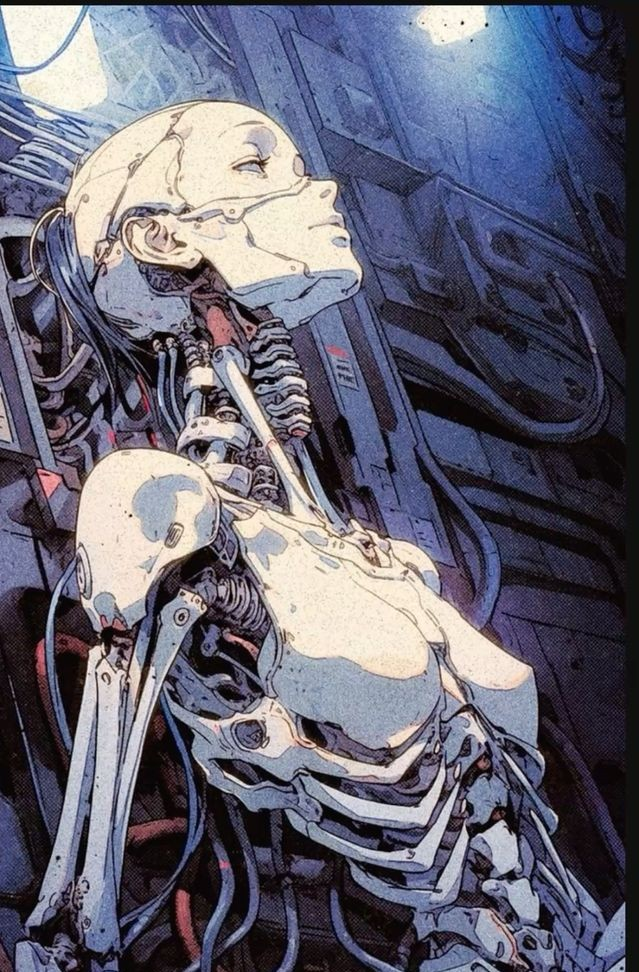
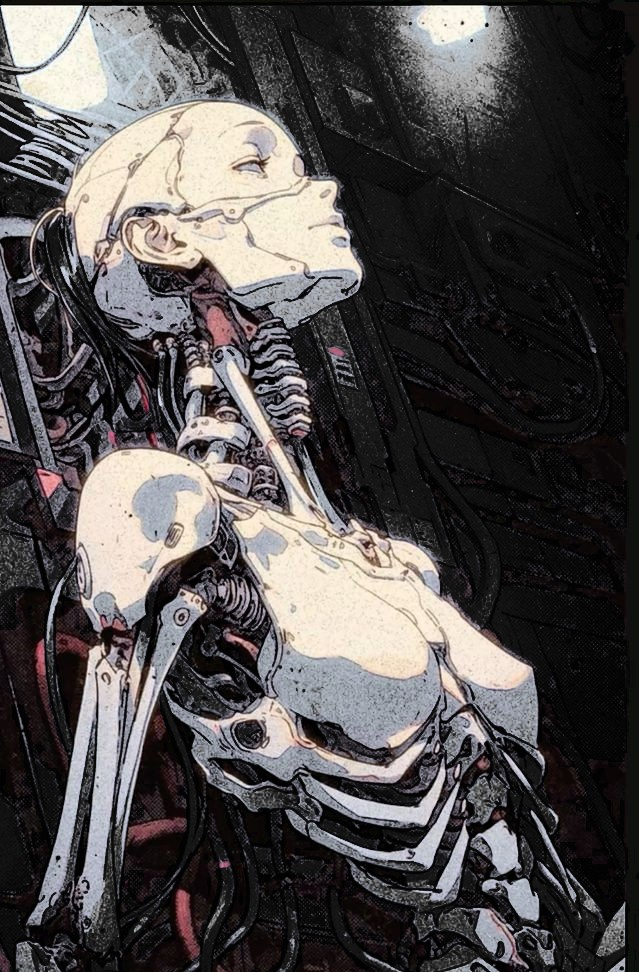
Zero goes black; his lines green, hers pink, labelled with his name
- Her art: blue-to-magenta pixels lose their colour; the dark room
  sinks to black while the light shading on her plating only greys,
  so her shoulders do not come out bruised. Recipe in ui/zero/ART.txt.
- Her page: no blue left. His lines neon green (#39ff5e), hers neon
  pink (#ff2d95), Speak green because it sends his line.
- His lines are labelled with the name she knows him by, read from a
  new `user` field in the roster (her USER_NAME), never typed in.
- One test, four breaks, all red. 774 -> 775.

Claude-Session: https://claude.ai/code/session_01BburobdiC3iYSVg4jtzydt

diff --git a/ui/zero.html b/ui/zero.html
@@ -20,22 +20,27 @@
   its right edge faded into the black so the two halves read as one
   screen. The phone's own buttons were cropped off it (ui/zero/ART.txt).
 
-  HER PALETTE IS SAMPLED OFF HER ART: the bone of her plating (#efe3c8),
-  the steel blue of the machine room behind her (#5b6aa8), and the red
-  of the cables inside her (#c8503f), which is kept for the one thing
-  that must stand out -- Speak.
+  BLACK AND GREY, NO BLUE -- his call the same night: "Can you make her
+  background more black? Blues not my vibe rly". The blue came out of
+  her art as well as the page (ui/zero/ART.txt says how).
+
+  THE LOG IS TWO COLOURS, AND BOTH ARE HIS: "Neon green for me, Neon
+  pink for her". The green is the deck's own (#39ff5e, Four's ink) and
+  the pink is the hot pink he picked for Saya's face months ago
+  (#ff2d95) -- so the page gains no new taste decision. Speak is
+  green because it sends HIS line.
 
   No network, no fonts, no libraries.
 -->
 <style>
 :root {
   --black: #000;
-  --panel: #07080f;
-  --edge:  #252c4a;
+  --panel: #050505;
+  --edge:  #262626;
   --ink:   #efe3c8;           /* her plating                           */
-  --dim:   #8e96bd;
-  --blue:  #5b6aa8;           /* the room behind her                   */
-  --red:   #c8503f;           /* the cables inside her                 */
+  --dim:   #8a8a8a;
+  --him:   #39ff5e;           /* neon green, his lines                 */
+  --her:   #ff2d95;           /* neon pink, hers                       */
 }
 * { box-sizing: border-box; margin: 0; padding: 0; }
 html, body { height: 100vh; overflow: hidden; }
@@ -69,14 +74,14 @@ body {
 #rail a:hover { color: var(--ink); border-color: var(--edge); }
 #rail .here {
   color: var(--ink);
-  border-color: color-mix(in srgb, var(--blue) 60%, transparent);
-  background: rgba(91,106,168,.12);
+  border-color: color-mix(in srgb, var(--her) 55%, transparent);
+  background: rgba(255,45,149,.10);
 }
 #home {
   width: 38px; height: 38px; flex: none; margin-left: auto;
   border-radius: 50%; cursor: pointer; display: grid; place-items: center;
-  font-size: 17px; color: var(--ink); background: rgba(91,106,168,.12);
-  border: 1px solid color-mix(in srgb, var(--blue) 55%, transparent);
+  font-size: 17px; color: var(--ink); background: rgba(255,255,255,.06);
+  border: 1px solid #444;
 }
 
 /* ---- her, and the conversation ------------------------------------
@@ -102,11 +107,13 @@ body {
   transition: filter .6s ease;
 }
 /* THE "SHE IS THINKING" CUE, in her idiom: the machine room brightens
-   while a reply is being worked out, and settles when it lands. */
+   while a reply is being worked out, and settles when it lands. No
+   saturate(): the room is grey now, and boosting what colour is left
+   only brings the cables' red up, not the blue back. */
 body.thinking #zero { animation: working 1.6s ease-in-out infinite; }
 @keyframes working {
   0%, 100% { filter: brightness(1) }
-  50%      { filter: brightness(1.28) saturate(1.15) }
+  50%      { filter: brightness(1.3) }
 }
 
 #chat {
@@ -114,7 +121,7 @@ body.thinking #zero { animation: working 1.6s ease-in-out infinite; }
   display: flex; flex-direction: column; gap: 12px;
   background: var(--panel);
   border: 1px solid var(--edge);
-  border-top: 2px solid var(--blue);
+  border-top: 2px solid var(--her);
   border-radius: 3px; padding: 16px;
 }
 #log {
@@ -131,10 +138,14 @@ body.thinking #zero { animation: working 1.6s ease-in-out infinite; }
         overflow-wrap: anywhere; }
 .turn .by { display: block; font-size: 11.5px; letter-spacing: .12em;
             text-transform: uppercase; margin-bottom: 2px; }
-.him { color: var(--dim); }
-.him .by { color: var(--blue); }
-.her .by { color: var(--red); }
-.her.pending { color: var(--dim); }
+/* HIS LINES GREEN, HERS PINK, the words as well as the labels -- a
+   log you can read by colour at a glance. A faint glow makes them neon
+   rather than just bright; any more and long answers smear. */
+.him { color: var(--him); text-shadow: 0 0 6px rgba(57,255,94,.28); }
+.her { color: var(--her); text-shadow: 0 0 6px rgba(255,45,149,.30); }
+.turn .by { opacity: .75; }
+.her.pending { color: var(--dim); text-shadow: none; }
+.her.pending .by { color: var(--her); }
 .her.pending .dots { animation: blink 1.2s steps(4) infinite; }
 @keyframes blink { 0% { opacity: .3 } 50% { opacity: 1 } 100% { opacity: .3 } }
 
@@ -148,10 +159,10 @@ body.thinking #zero { animation: working 1.6s ease-in-out infinite; }
   border: 1px solid var(--edge);
 }
 #text::placeholder { color: var(--dim); opacity: .8; }
-#text:focus { outline: none; border-color: var(--blue); }
+#text:focus { outline: none; border-color: var(--him); }
 #send {
   font: inherit; font-size: 16px; font-weight: 700; cursor: pointer;
-  color: #140504; background: var(--red); padding: 12px 22px;
+  color: #031006; background: var(--him); padding: 12px 22px;
   border: 0; border-radius: 3px;
 }
 #send:disabled { opacity: .5; cursor: default; }
@@ -209,12 +220,17 @@ document.getElementById('home').onclick = () => {
 
 // ---- who else is here ------------------------------------------------
 const ME = 'zero';
+// HIS LINES CARRY HIS NAME, the one SHE knows him by: `user` in the
+// roster is USER_NAME off her persona, so the log and her prompt can
+// never disagree about who he is. "you" only if the roster never answers.
+let HIM = 'you';
 fetch('characters.json', { cache: 'no-store' })
   .then(r => r.json())
   .then(cast => {
     const rail = document.getElementById('rail');
     cast.forEach(c => {
       const here = c.who === ME;
+      if (here && c.user) HIM = c.user;
       const el = document.createElement(here ? 'span' : 'a');
       el.textContent = c.name;
       el.title = c.blurb;
@@ -300,7 +316,7 @@ form.onsubmit = (event) => {
   send.disabled = true;
   send.textContent = '...';
   document.body.classList.add('thinking');
-  entry('him', 'you', asked);
+  entry('him', HIM, asked);
   // Where her reply will land, saying so while she works it out.
   const pending = entry('her pending', 'Zero', 'working it out ');
   const dots = document.createElement('span');

diff --git a/YUZU_TESTER.py b/YUZU_TESTER.py
@@ -3676,6 +3676,40 @@ class TestTheCastIsTwo(unittest.TestCase):
         self.assertEqual(cast, set(yuzu_face.CHARACTERS),
                          "the rail and the roster disagree about the cast")
 
+    def test_his_lines_carry_the_name_SHE_knows_him_by(self):
+        """Ghost, on Zero's page: "Make sure she knows im Ghost."
+
+        She does -- USER_NAME is in her persona and by_name() swaps
+        "user" for it -- but the log labelled his own lines "YOU", so
+        the one screen he reads her on never showed it. The label is
+        READ: `user` in the roster is USER_NAME off her persona, the
+        same one place her prompt reads it from, so the page and her
+        prompt cannot disagree about who he is. Typing "Ghost" into
+        the page would be the hardcoded cast in its newest costume.
+
+        A character with no USER_NAME (Yuzu) carries "" -- absent
+        rather than a guess."""
+        import yuzu_face
+        for c in yuzu_face.roster():
+            key = yuzu_face.CHARACTERS[c["who"]][0]
+            self.assertEqual(c.get("user"), yuzu_face._his_name(key),
+                             f"{c['who']}'s roster name for him drifted "
+                             "from her persona")
+        mine = {c["who"]: c["user"] for c in yuzu_face.roster()}
+        self.assertEqual(mine["zero"], "Ghost", "she was never told his name")
+        self.assertEqual(mine["yuzu"], "", "a name was invented for Yuzu")
+
+        page = (Path(__file__).parent / "ui" / "zero.html").read_text()
+        page = re.sub(r"<!--.*?-->", " ", page, flags=re.S)
+        page = re.sub(r"/\*.*?\*/", " ", page, flags=re.S)
+        code = "\n".join(ln.split("//")[0] for ln in page.splitlines())
+        # assertTrue, not assertRegex: the latter prints the whole page.
+        self.assertTrue(re.search(r"HIM\s*=\s*c\.user", code),
+                        "the page does not take his name from the roster")
+        self.assertTrue(re.search(r"entry\('him',\s*HIM", code),
+                        "his lines are not labelled with that name")
+        self.assertNotIn("Ghost", code, "his name is typed into the page")
+
     def test_the_cut_characters_are_off_the_INTERFACE_and_still_on_disk(self):
         """The two halves of "remove them from the interface entirely"
         without deleting a thing.

diff --git a/yuzu_face.py b/yuzu_face.py
@@ -689,6 +689,10 @@ def roster():
             continue
         out.append({"who": who, "name": persona.name,
                     "page": page, "blurb": blurb,
+                    # What SHE calls him, so a page can label his lines
+                    # with the same name. Read off her persona, like
+                    # everything else here; "" for a character with none.
+                    "user": (persona.settings.get("USER_NAME") or "").strip(),
                     # The home screen reads this rather than holding a
                     # name of its own. One roster, one truth -- the same
                     # rule that stopped Mimi being invisible.

diff --git a/CLAUDE.md b/CLAUDE.md
@@ -16,7 +16,7 @@
 - **Ghost works from a phone** (Z Flip 6, Pydroid + PocketPal). Anything
   requiring typed commands, file paths, or arguments is a dead end.
   Prefer: text he can paste, or a no-argument script he can tap Run on.
-- Run `python YUZU_TESTER.py` before committing. 774 tests, ~19 seconds.
+- Run `python YUZU_TESTER.py` before committing. 775 tests, ~19 seconds.
 
 **Ghost has to remember `sudo nvpmodel -m 0`.** The Orin ships
 throttled and forgetting it makes everything slow with no visible cause.
@@ -48,6 +48,32 @@ the LED work -- see "LEDs are removed" below.)
 This does NOT mean stripping pink from Yuzu. Her liking hot pink is
 character, it lives in the persona files, and removing it would gut
 her. The rule is about the CHASSIS FINISH, not her taste.
+
+## ZERO GOES BLACK, AND HER LOG IS HIS TWO COLOURS (Sept 24)
+
+Ghost, on her first render: *"Can you make her background more black?
+Blues not my vibe rly"*, then *"Neon green for me, Neon pink for her"*
+and *"Make sure she knows im Ghost"*.
+
+**THE BLUE CAME OUT OF THE ART, NOT ONLY THE PAGE.** The page was
+already `#000`; the blue was her machine room. Every blue-to-magenta
+pixel loses its colour, and **how far it darkens depends on how light
+it was**: the room sinks to black, the lavender shading on her plating
+only turns grey. Darkening both the same left dark blotches on her
+shoulders that read as bruises -- rendered three ways side by side and
+looked at, thirty-fifth time. Recipe in `ui/zero/ART.txt`.
+
+**His lines `#39ff5e`, hers `#ff2d95`** -- the deck's green and the
+hot pink he picked for Saya's face, so no new taste call. Speak is
+green because it sends HIS line.
+
+**"SHE KNOWS" WAS ALREADY TRUE; THE SCREEN NEVER SHOWED IT.** Her
+persona carries `USER_NAME: Ghost` and `by_name()` guards her replies
+-- but the log labelled his lines `YOU`. They carry his name now, READ
+from a new `user` field in the roster (her USER_NAME, `""` for Yuzu),
+so the label and her prompt cannot disagree. **One test, four breaks,
+all red**: the roster dropping the name, the name typed into the page,
+the label back to "you", and a hardcoded `HIM`. **774 -> 775.**
 
 ## ZERO: A SECOND MIND, ON HER OWN WEIGHTS (Sept 24)
 

diff --git a/NEXT_SESSION.md b/NEXT_SESSION.md
@@ -55,7 +55,7 @@ So:
     roster         Yuzu, Four, Zero  (Cait, Mimi, Saya are `retired: yes`)
     Zero's weights  her own `model:` -- Qwen3-4B-Instruct-2507 heretic
     Four's prompt  5446 chars
-    tests          774, ~95s,  `python YUZU_TESTER.py`
+    tests          775, ~95s,  `python YUZU_TESTER.py`
     tree           clean, pushed to main
 
 **Context headroom is the number to know before you build anything
@@ -80,7 +80,7 @@ comes back having forgotten the start of the conversation.
 ## The working loop
 
 1. Build it.
-2. `python YUZU_TESTER.py` — 774 tests, ~19s on his board, ~95s here.
+2. `python YUZU_TESTER.py` — 775 tests, ~19s on his board, ~95s here.
 3. **Break-verify every new or changed test.** Break the thing it
    guards and watch it go red. A test that has not been broken is a
    test you are guessing about. Read the failure KIND: `errors=1` means

diff --git a/NANO_DAY_ONE.md b/NANO_DAY_ONE.md
@@ -155,7 +155,7 @@ cd YUZU
 python3 YUZU_TESTER.py
 ```
 
-**774 tests, ~19 seconds.** If they pass, the software made the trip
+**775 tests, ~19 seconds.** If they pass, the software made the trip
 intact. Nothing to install — the whole thing is standard library.
 
 ## 9 — Talk to her
